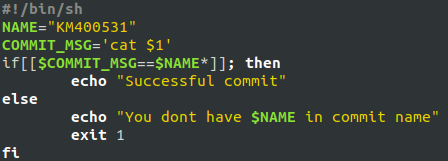
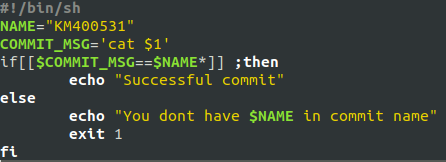
KM400531

diff --git a/INO/GCL01/KM400531/Lab02/Sprawozdanie_2.md b/INO/GCL01/KM400531/Lab02/Sprawozdanie_2.md
@@ -3,5 +3,6 @@
 ### Sprawozdanie 2 ###
 Na początku przechodzę do katalogu *git* (który jest ukryty dlatego aby do niego przejść muszę dać . na początku). Następnie przechodzę do katalogu *hooks*  
 ![](hooks.png)  
-Tworzę plik *commit_msg* który sprawdza czy tytuł commita nazywa się tak jak moje inicjały oraz numer indeksu  
-![](commit_msg.png)
+Edytowałem plik *commit-msg.sample* tak aby sprawdzał czy tytuł commita nazywa się tak jak moje inicjały oraz numer indeksu. Na koniec zmieniam jego nazwę na *commit-msg*   
+![](commit_msg.png)  
+
